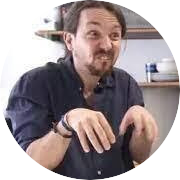
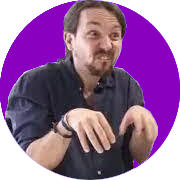
cambios menores

diff --git a/El raton y el gato/El raton y el gato/Utils.cs b/El raton y el gato/El raton y el gato/Utils.cs
@@ -42,11 +42,11 @@ namespace El_raton_y_el_gato
 
             for (float i = x.Min(); i <= x.Max(); i += 1)
             {
-                FillRectangle(canvas, i, y.Min(), width, size.y, Color.Grey());
+                FillRectangle(canvas, i, y.Min(), width, size.y, Color.Grey(0.5f));
             }
             for (float i = y.Min(); i <= y.Max(); i += 1)
             {
-                FillRectangle(canvas, x.Min(), i, size.x, width, Color.Grey());
+                FillRectangle(canvas, x.Min(), i, size.x, width, Color.Grey(0.5f));
             }
         }
         public static void SetDebugMode(IKeyboard keyboard)
@@ -70,6 +70,10 @@ namespace El_raton_y_el_gato
         public static float PingPong()
         {
             return ((float)Math.Sin(time) + 1f) / 2f;
+        }
+        public static float PingPong(float maxValue)
+        {
+            return (((float)Math.Sin(time) + 1f) / 2f)*maxValue;
         }
         public static void ClearCanvas(ICanvas canvas, RGBA color)
         {

diff --git a/El raton y el gato/El raton y el gato/TomAndJerry.cs b/El raton y el gato/El raton y el gato/TomAndJerry.cs
@@ -15,7 +15,7 @@ namespace El_raton_y_el_gato
             time += 1f / 60f;
             canvas.SetCamera(X.Min(), Y.Min(), X.Max(), Y.Max(),true);
             ClearCanvas(canvas, Color.Black());
-            canvas.FillRectangle(X.Min(), Y.Min(), Dimensions().x, Dimensions().y, background, 0,0,1,1, 0.8f,0.8f,0.8f,0.99f);
+            canvas.FillRectangle(X.Min(), Y.Min(), Dimensions().x, Dimensions().y, background, 0,0,1,1, 0.9f,0.9f,0.9f,0.99f);
             if(Utils.isDebugging)
                 RenderGrid(canvas,window, X, Y);
             DrawCharacters(characterList, canvas);

diff --git a/El raton y el gato/El raton y el gato/Color.cs b/El raton y el gato/El raton y el gato/Color.cs
@@ -32,6 +32,10 @@ namespace El_raton_y_el_gato
         public static RGBA Grey()
         {
             return new RGBA(0.7f, 0.7f, 0.7f, 0.99999f);
+        } 
+        public static RGBA Grey(float alpha)
+        {
+            return new RGBA(0.7f, 0.7f, 0.7f, alpha);
         }
         public static RGBA Yellow()
         {

diff --git a/El raton y el gato/El raton y el gato/Vector2.cs b/El raton y el gato/El raton y el gato/Vector2.cs
@@ -43,7 +43,7 @@ namespace El_raton_y_el_gato
         }
         #endregion
 
-        #region STATIC
+        #region TOOLS
         public static float Distance(Vector2 a, Vector2 b)
         {
             float dx = a.x - b.x;

diff --git a/El raton y el gato/El raton y el gato/Character.cs b/El raton y el gato/El raton y el gato/Character.cs
@@ -59,7 +59,7 @@ namespace El_raton_y_el_gato
        
         public void FlickerEffect()
         {
-            this.color.a = PingPong();
+            this.color.a = PingPong(0.99999f);
         }
         #endregion
 
